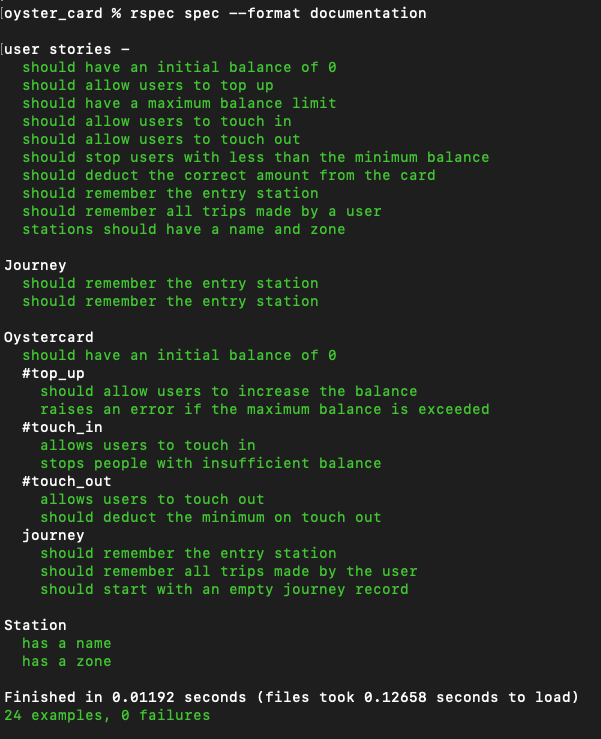
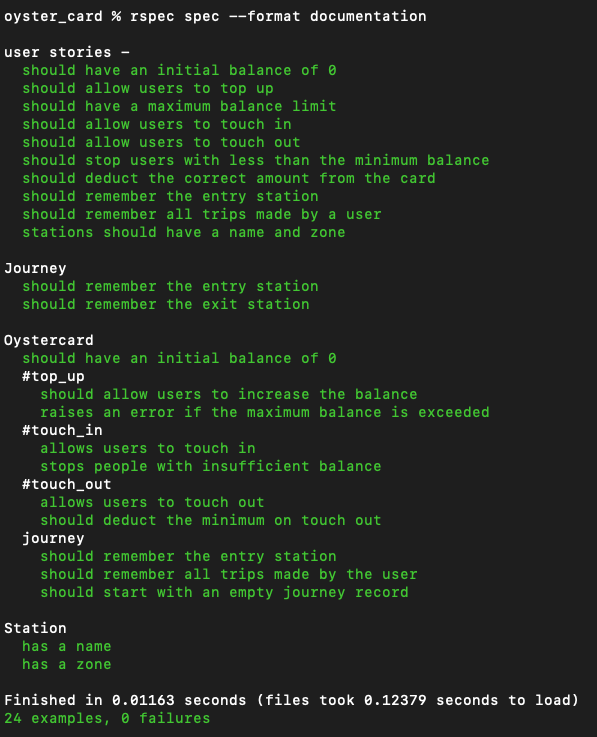
updated readme

diff --git a/spec/journey_spec.rb b/spec/journey_spec.rb
@@ -10,7 +10,7 @@ RSpec.describe Journey do
     expect(subject.entry_station).to eq(entry_station)
   end
 
-  it 'should remember the entry station' do
+  it 'should remember the exit station' do
     subject.touch_out(exit_station)
     expect(subject.exit_station).to eq(exit_station)
   end
